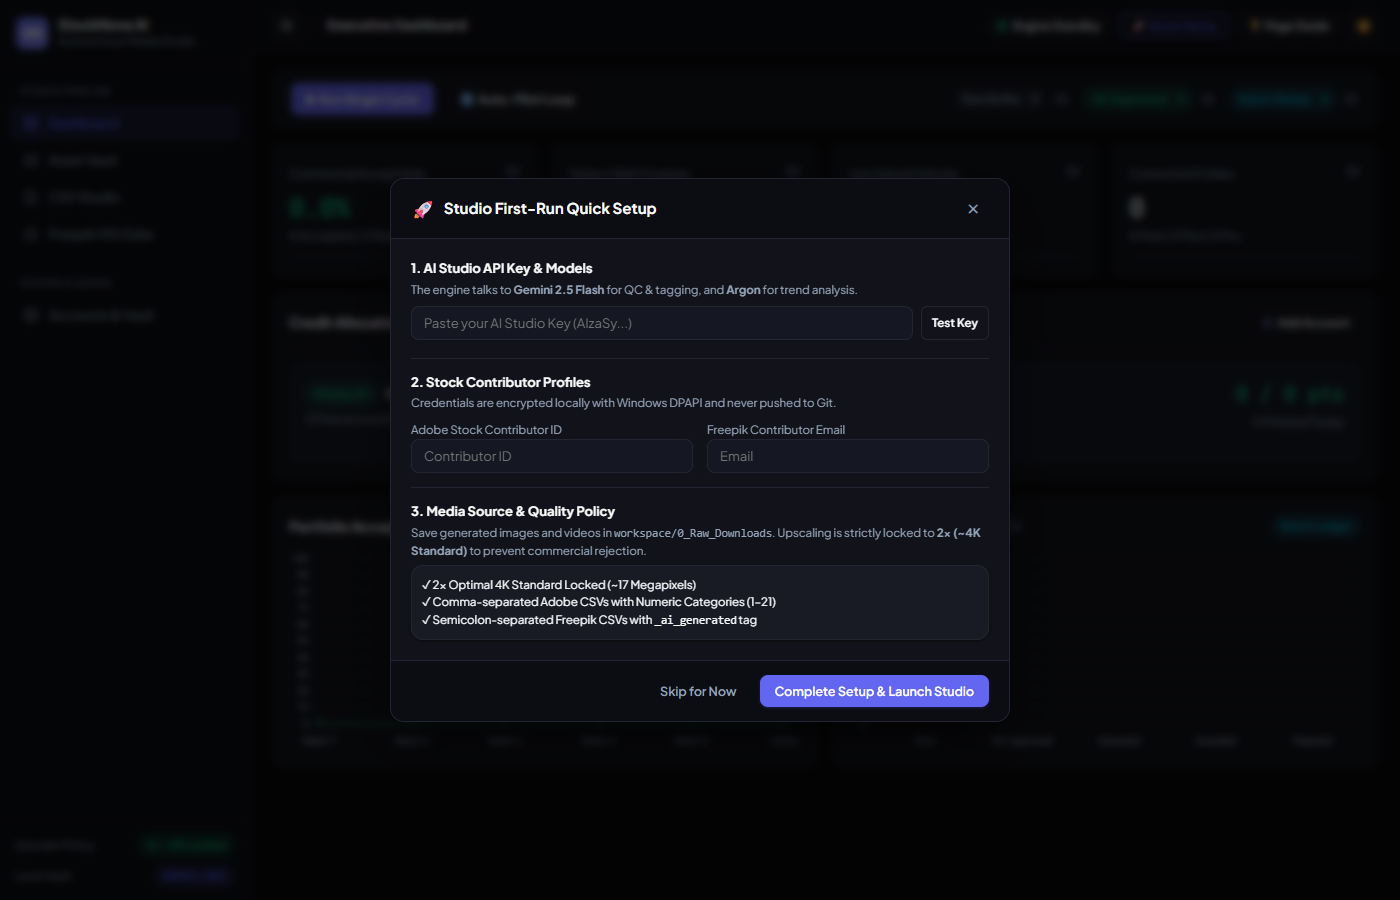
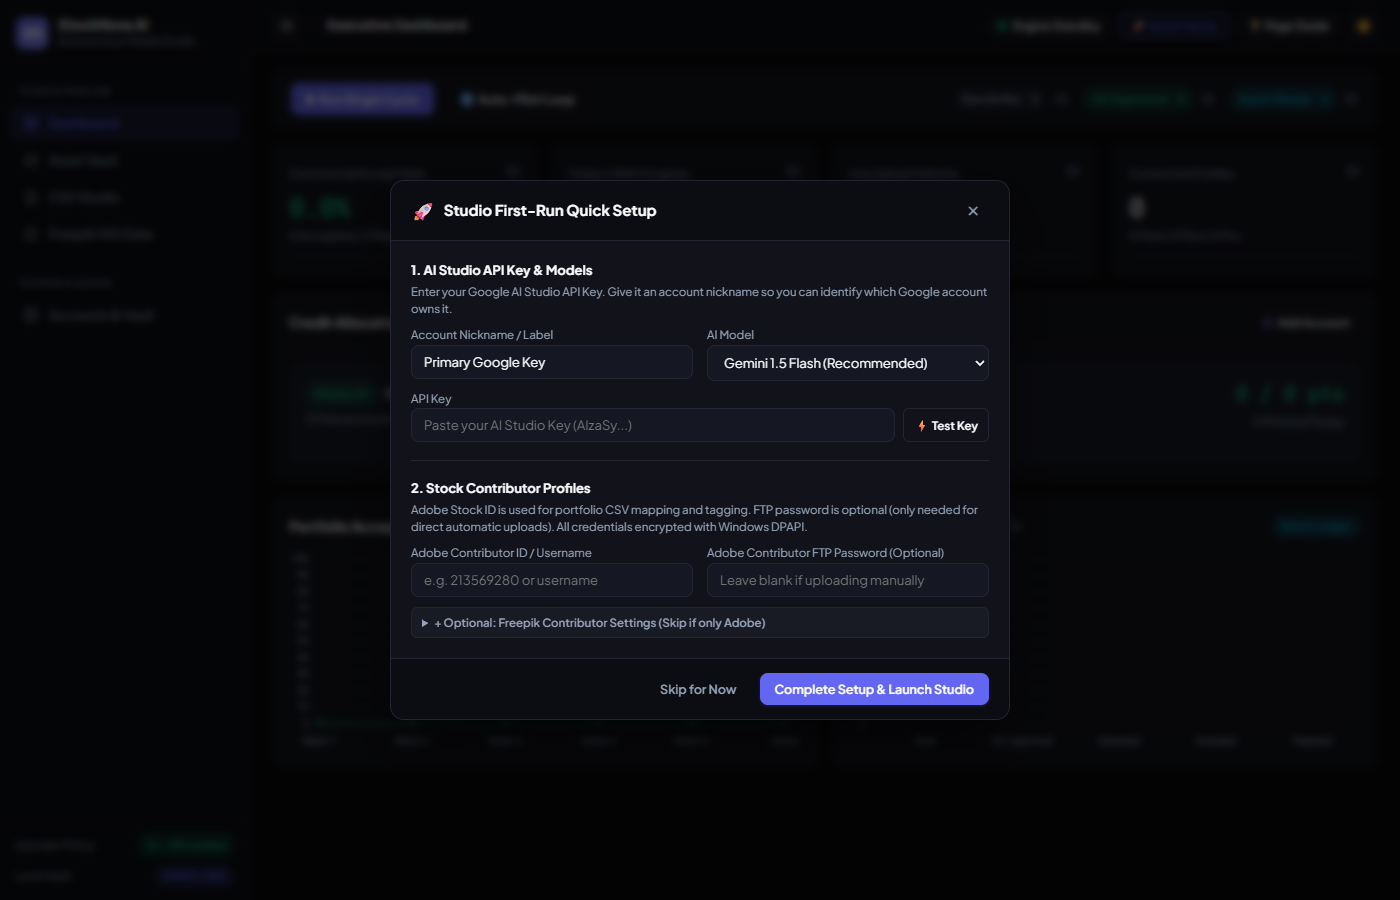
fix(ui): remove step 3 in setup, add account nickname & model selector, fix 404 test key error

diff --git a/stockpilot/ui/app.html b/stockpilot/ui/app.html
@@ -1437,44 +1437,56 @@
         <div style="border-bottom:1px solid var(--border); padding-bottom:14px;">
           <strong style="font-size:13px; color:var(--text-main);">1. AI Studio API Key & Models</strong>
           <p style="font-size:11.5px; color:var(--text-muted); margin:2px 0 8px;">
-            The engine talks to <strong>Gemini 2.5 Flash</strong> for QC & tagging, and <strong>Argon</strong> for trend analysis.
+            Enter your Google AI Studio API Key. Give it an account nickname so you can identify which Google account owns it.
           </p>
-          <div style="display:flex; gap:8px;">
-            <input type="password" id="qs-api-key" class="sc-input" placeholder="Paste your AI Studio Key (AIzaSy...)" />
-            <button class="sc-btn sc-btn-outline sc-btn-sm" onclick="testQuickSetupKey()" id="btn-qs-test">Test Key</button>
+          <div class="grid-2" style="margin-bottom:8px;">
+            <div>
+              <label class="kpi-label">Account Nickname / Label</label>
+              <input type="text" id="qs-key-alias" class="sc-input" placeholder="e.g. Personal Account 01" value="Primary Google Key" />
+            </div>
+            <div>
+              <label class="kpi-label">AI Model</label>
+              <select id="qs-model-select" class="sc-select">
+                <option value="gemini-1.5-flash" selected>Gemini 1.5 Flash (Recommended)</option>
+                <option value="gemini-1.5-pro">Gemini 1.5 Pro</option>
+                <option value="gemini-2.0-flash">Gemini 2.0 Flash</option>
+                <option value="gemini-3.8-flash">Gemini 3.8 Flash</option>
+              </select>
+            </div>
+          </div>
+          <div>
+            <label class="kpi-label">API Key</label>
+            <div style="display:flex; gap:8px;">
+              <input type="password" id="qs-api-key" class="sc-input" placeholder="Paste your AI Studio Key (AIzaSy...)" />
+              <button class="sc-btn sc-btn-outline sc-btn-sm" onclick="testQuickSetupKey()" id="btn-qs-test" style="white-space:nowrap;">⚡ Test Key</button>
+            </div>
           </div>
           <span id="qs-key-feedback" style="font-size:11px; margin-top:4px; display:block;"></span>
         </div>
 
-        <!-- Step 2: Contributor Accounts -->
-        <div style="border-bottom:1px solid var(--border); padding-bottom:14px;">
+        <!-- Step 2: Stock Contributor Profiles -->
+        <div style="padding-top:4px;">
           <strong style="font-size:13px; color:var(--text-main);">2. Stock Contributor Profiles</strong>
           <p style="font-size:11.5px; color:var(--text-muted); margin:2px 0 8px;">
-            Credentials are encrypted locally with Windows DPAPI and never pushed to Git.
+            Adobe Stock ID is used for portfolio CSV mapping and tagging. FTP password is optional (only needed for direct automatic uploads). All credentials encrypted with Windows DPAPI.
           </p>
           <div class="grid-2">
             <div>
-              <label class="kpi-label">Adobe Stock Contributor ID</label>
-              <input type="text" id="qs-adobe-user" class="sc-input" placeholder="Contributor ID" />
+              <label class="kpi-label">Adobe Contributor ID / Username</label>
+              <input type="text" id="qs-adobe-user" class="sc-input" placeholder="e.g. 213569280 or username" />
             </div>
             <div>
-              <label class="kpi-label">Freepik Contributor Email</label>
-              <input type="text" id="qs-freepik-user" class="sc-input" placeholder="Email" />
+              <label class="kpi-label">Adobe Contributor FTP Password <span style="font-weight:normal; color:var(--text-muted);">(Optional)</span></label>
+              <input type="password" id="qs-adobe-pass" class="sc-input" placeholder="Leave blank if uploading manually" />
             </div>
           </div>
-        </div>
-
-        <!-- Step 3: Media Source & 2x 4K Policy -->
-        <div>
-          <strong style="font-size:13px; color:var(--text-main);">3. Media Source & Quality Policy</strong>
-          <p style="font-size:11.5px; color:var(--text-muted); margin:2px 0 6px;">
-            Save generated images and videos in <code>workspace/0_Raw_Downloads</code>. Upscaling is strictly locked to <strong>2x (~4K Standard)</strong> to prevent commercial rejection.
-          </p>
-          <div class="sc-card" style="background:var(--bg-subtle); padding:10px; font-size:11.5px;">
-            ✓ 2x Optimal 4K Standard Locked (~17 Megapixels)<br/>
-            ✓ Comma-separated Adobe CSVs with Numeric Categories (1–21)<br/>
-            ✓ Semicolon-separated Freepik CSVs with <code>_ai_generated</code> tag
-          </div>
+          <details style="margin-top:10px; font-size:11.5px; border:1px solid var(--border); border-radius:6px; padding:6px 10px; background:var(--bg-subtle);">
+            <summary style="cursor:pointer; font-weight:600; color:var(--text-muted);">+ Optional: Freepik Contributor Settings (Skip if only Adobe)</summary>
+            <div style="margin-top:8px;">
+              <label class="kpi-label">Freepik Contributor Email</label>
+              <input type="text" id="qs-freepik-user" class="sc-input" placeholder="contributor@example.com" />
+            </div>
+          </details>
         </div>
 
       </div>
@@ -1496,15 +1508,30 @@
         <button class="sc-btn sc-btn-ghost sc-btn-sm" onclick="closeModal('modal-add-key')">✕</button>
       </div>
       <div class="sc-modal-body">
-        <div>
-          <label class="kpi-label">Key Alias (Label)</label>
-          <input type="text" id="input-key-alias" class="sc-input" placeholder="e.g. key_primary_fast" />
+        <div class="grid-2">
+          <div>
+            <label class="kpi-label">Key Nickname / Account Label</label>
+            <input type="text" id="input-key-alias" class="sc-input" placeholder="e.g. Personal_Gmail_01" />
+          </div>
+          <div>
+            <label class="kpi-label">Preferred Model</label>
+            <select id="input-key-model" class="sc-select">
+              <option value="gemini-1.5-flash" selected>Gemini 1.5 Flash</option>
+              <option value="gemini-1.5-pro">Gemini 1.5 Pro</option>
+              <option value="gemini-2.0-flash">Gemini 2.0 Flash</option>
+              <option value="gemini-3.8-flash">Gemini 3.8 Flash</option>
+            </select>
+          </div>
         </div>
         <div>
           <label class="kpi-label">Gemini API Key</label>
-          <input type="password" id="input-api-key" class="sc-input" placeholder="AIzaSy..." />
+          <div style="display:flex; gap:8px;">
+            <input type="password" id="input-api-key" class="sc-input" placeholder="AIzaSy..." />
+            <button class="sc-btn sc-btn-outline sc-btn-sm" onclick="testModalAddKey()" id="btn-modal-test-key" style="white-space:nowrap;">⚡ Test</button>
+          </div>
+          <span id="modal-key-feedback" style="font-size:11px; margin-top:4px; display:block;"></span>
         </div>
-        <p style="font-size:11px; color:var(--text-muted);">
+        <p style="font-size:11px; color:var(--text-muted); margin:0;">
           Key will be encrypted using Windows DPAPI before being stored in SQLite.
         </p>
       </div>
@@ -2119,13 +2146,31 @@
 
     async function testQuickSetupKey() {
       const key = document.getElementById('qs-api-key').value.trim();
+      const model = document.getElementById('qs-model-select').value;
       const fb = document.getElementById('qs-key-feedback');
       if (!key) return alert('Please paste an API key first.');
-      fb.textContent = 'Pinging Google AI Studio...';
+      fb.textContent = `Pinging Google AI Studio (${model})...`;
       fb.style.color = 'var(--text-muted)';
-      const res = await callBridge('test_api_key', key);
+      const res = await callBridge('test_api_key', key, model);
       if (res.status === 'success') {
-        fb.textContent = '✓ Key verified successfully!';
+        fb.textContent = `✓ ${res.message}`;
+        fb.style.color = 'var(--emerald)';
+      } else {
+        fb.textContent = `✕ Verification error: ${res.message}`;
+        fb.style.color = 'var(--rose)';
+      }
+    }
+
+    async function testModalAddKey() {
+      const key = document.getElementById('input-api-key').value.trim();
+      const model = document.getElementById('input-key-model').value;
+      const fb = document.getElementById('modal-key-feedback');
+      if (!key) return alert('Please paste an API key first.');
+      fb.textContent = `Testing key against ${model}...`;
+      fb.style.color = 'var(--text-muted)';
+      const res = await callBridge('test_api_key', key, model);
+      if (res.status === 'success') {
+        fb.textContent = `✓ ${res.message}`;
         fb.style.color = 'var(--emerald)';
       } else {
         fb.textContent = `✕ Verification error: ${res.message}`;
@@ -2134,15 +2179,18 @@
     }
 
     async function submitQuickSetup() {
+      const alias = document.getElementById('qs-key-alias').value.trim() || 'Primary Google Key';
       const key = document.getElementById('qs-api-key').value.trim();
       const adobeUser = document.getElementById('qs-adobe-user').value.trim();
-      const freepikUser = document.getElementById('qs-freepik-user').value.trim();
+      const adobePass = document.getElementById('qs-adobe-pass').value.trim();
+      const freepikInput = document.getElementById('qs-freepik-user');
+      const freepikUser = freepikInput ? freepikInput.value.trim() : '';
 
       if (key) {
-        await callBridge('save_api_key', 'primary_key', key);
+        await callBridge('save_api_key', alias, key);
       }
       if (adobeUser) {
-        await callBridge('save_ftp_credentials', adobeUser, '', 'ftp.contributor.adobestock.com', 21);
+        await callBridge('save_ftp_credentials', adobeUser, adobePass, 'ftp.contributor.adobestock.com', 21);
       }
       if (freepikUser) {
         await callBridge('save_freepik_credentials', freepikUser, '', 'standby');

diff --git a/stockpilot/ui/desktop_api.py b/stockpilot/ui/desktop_api.py
@@ -619,8 +619,8 @@ class DesktopBridgeAPI:
 
     delete_gemini_key = delete_api_key
 
-    def test_api_key(self, alias: str) -> str:
-        """Pings Google AI Studio with `gemini-2.5-flash` to verify connectivity and quota."""
+    def test_api_key(self, alias: str, model_name: str = "") -> str:
+        """Pings Google AI Studio with candidate models (gemini-1.5-flash, gemini-1.5-pro, etc.) to verify connectivity."""
         raw_key = alias
         with self.db.get_connection() as conn:
             cursor = conn.cursor()
@@ -629,38 +629,65 @@ class DesktopBridgeAPI:
             if row:
                 raw_key = row["api_key"]
 
-        key_str = SecurityVault.decrypt(raw_key)
-        try:
-            from google import genai
-            client = genai.Client(api_key=key_str)
-            t0 = time.perf_counter()
-            resp = client.models.generate_content(
-                model="gemini-2.5-flash",
-                contents="Reply with 'OK'.",
-            )
-            elapsed = int((time.perf_counter() - t0) * 1000)
-            self.db.clear_platform_alerts("Google AI Studio API", alias)
-            return json.dumps({
-                "status": "success",
-                "message": f"المفتاح يعمل بنجاح! زمن الاستجابة: {elapsed}ms ({(resp.text or 'OK').strip()})",
-            })
-        except Exception as e:
-            err_str = str(e)
-            err_type = "RATE_LIMIT_429" if "429" in err_str else ("AUTH_403" if "403" in err_str else "API_ERROR")
-            hint = (
-                "المفتاح وصل للحد المؤقت وسيقوم النظام بالتدوير التلقائي لمفتاح آخر."
-                if "429" in err_str
-                else "تأكد من صحة المفتاح من Google AI Studio."
-            )
-            self.db.record_platform_alert(
-                "Google AI Studio API",
-                alias,
-                err_type,
-                err_str,
-                hint,
-                severity="critical" if "403" in err_str else "warning",
-            )
-            return json.dumps({"status": "error", "message": f"فشل اختبار المفتاح: {e}"})
+        key_str = SecurityVault.decrypt(raw_key).strip()
+        if not key_str:
+            return json.dumps({"status": "error", "message": "API Key is empty or invalid."})
+
+        # Candidate models to try in order of priority:
+        candidate_models = []
+        if model_name and model_name.strip():
+            candidate_models.append(model_name.strip())
+
+        default_candidates = [
+            "gemini-1.5-flash",
+            "gemini-1.5-pro",
+            "gemini-2.0-flash",
+            "gemini-3.8-flash",
+            "gemini-2.5-flash",
+        ]
+        for m in default_candidates:
+            if m not in candidate_models:
+                candidate_models.append(m)
+
+        last_error = None
+        for mod in candidate_models:
+            try:
+                from google import genai
+                client = genai.Client(api_key=key_str)
+                t0 = time.perf_counter()
+                resp = client.models.generate_content(
+                    model=mod,
+                    contents="Ping. Reply with 'OK'.",
+                )
+                elapsed = int((time.perf_counter() - t0) * 1000)
+                self.db.clear_platform_alerts("Google AI Studio API", alias)
+                return json.dumps({
+                    "status": "success",
+                    "working_model": mod,
+                    "message": f"Verified successfully with '{mod}'! Latency: {elapsed}ms.",
+                })
+            except Exception as e:
+                err_str = str(e)
+                last_error = e
+                # If model name is not found (404), continue trying next available model
+                if "404" in err_str or "NOT_FOUND" in err_str:
+                    continue
+                # If auth failure or invalid key, stop early
+                if "403" in err_str or "API_KEY_INVALID" in err_str:
+                    break
+
+        err_str = str(last_error) if last_error else "Unknown verification error."
+        err_type = "AUTH_403" if "403" in err_str else ("RATE_LIMIT_429" if "429" in err_str else "API_ERROR")
+        hint = "Check that your API key is active in Google AI Studio." if "403" in err_str else "All candidate models returned an error."
+        self.db.record_platform_alert(
+            "Google AI Studio API",
+            alias,
+            err_type,
+            err_str,
+            hint,
+            severity="critical" if "403" in err_str else "warning",
+        )
+        return json.dumps({"status": "error", "message": f"Verification error: {err_str}"})
 
     test_gemini_key = test_api_key
 
